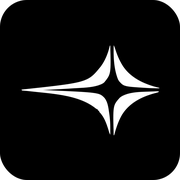
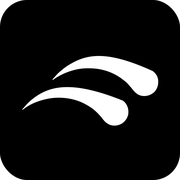
Lock in the swoosh mark, wordmark, and share card
Favicon stays the mark on a black rounded tile. Preview line matches the card.

Changed region(s): [[0.1111, 0.25, 0.8889, 0.75]]

diff --git a/src/routes/__root.tsx b/src/routes/__root.tsx
@@ -18,10 +18,10 @@ export const Route = createRootRoute({
       { name: "twitter:site", content: site.xHandle },
     ],
     links: [
-      { rel: "icon", type: "image/svg+xml", href: "/favicon.svg?v=8" },
-      { rel: "icon", href: "/favicon.ico?v=8", sizes: "48x48" },
-      { rel: "icon", type: "image/png", sizes: "32x32", href: "/favicon.png?v=8" },
-      { rel: "apple-touch-icon", sizes: "180x180", href: "/apple-touch-icon.png?v=8" },
+      { rel: "icon", type: "image/svg+xml", href: "/favicon.svg?v=9" },
+      { rel: "icon", href: "/favicon.ico?v=9", sizes: "48x48" },
+      { rel: "icon", type: "image/png", sizes: "32x32", href: "/favicon.png?v=9" },
+      { rel: "apple-touch-icon", sizes: "180x180", href: "/apple-touch-icon.png?v=9" },
       { rel: "stylesheet", href: appCss },
       { rel: "preconnect", href: "https://fonts.googleapis.com" },
       {

diff --git a/src/components/brand-mark.tsx b/src/components/brand-mark.tsx
@@ -4,7 +4,7 @@ import { cn } from "@/lib/utils";
 export function BrandMark({ className }: { className?: string }) {
   return (
     <img
-      src="/logo.svg?v=5"
+      src="/logo.svg?v=6"
       alt=""
       className={cn("shrink-0 object-contain", className)}
       draggable={false}
@@ -15,7 +15,7 @@ export function BrandMark({ className }: { className?: string }) {
 export function HeroLockup() {
   return (
     <img
-      src="/wordmark.svg?v=5"
+      src="/wordmark.png?v=6"
       alt="Arkeos"
       className="mx-auto block h-auto w-[min(58vw,18rem)] object-contain"
       draggable={false}
